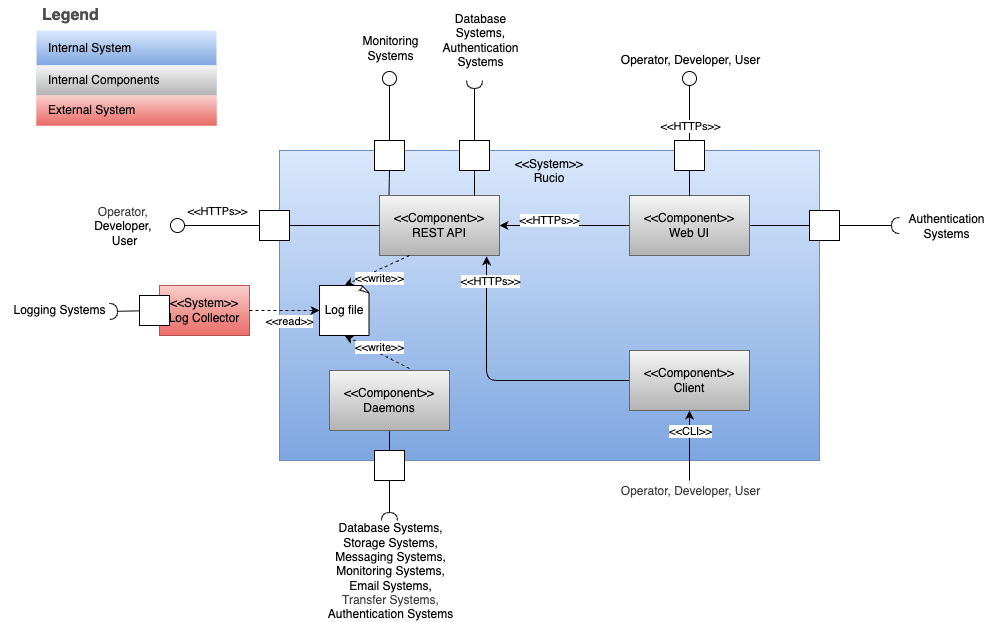
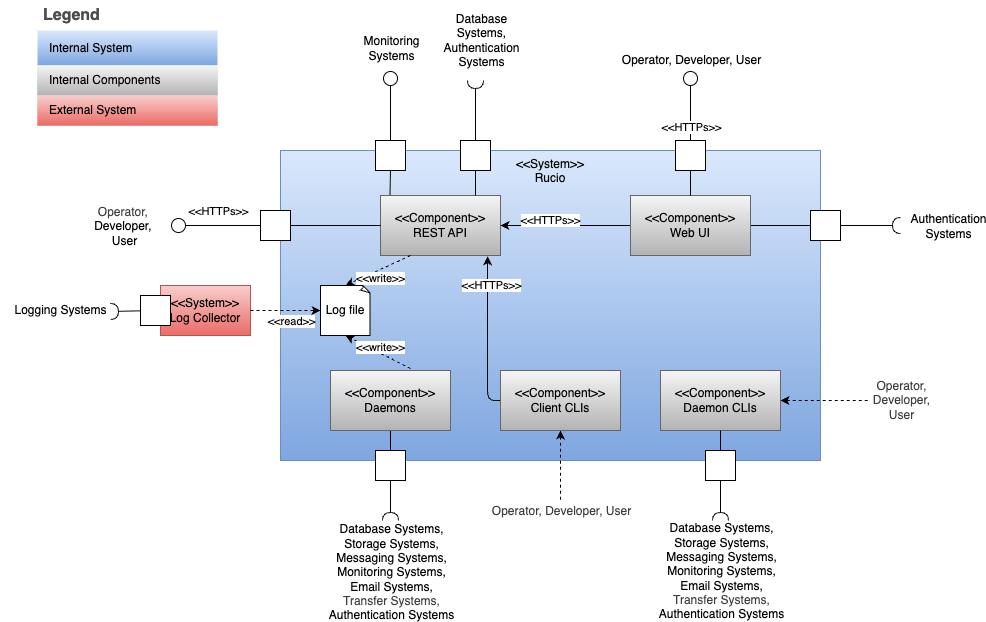
docs: distinguish between client and daemon CLIs

diff --git a/README.md b/README.md
@@ -95,9 +95,7 @@ TODO(mgajek-cern)
 
 #### Client
 
-TODO(mgajek-cern)
-
-Each daemon has a corresponding CLI application
+Client CLIs (bin/rucio and bin/rucio-admin) interact with Rucio through the REST API, while daemon CLIs bypass the API and access the database directly with the same logic as daemon processes.
 
 ### 6. Runtime view
 
